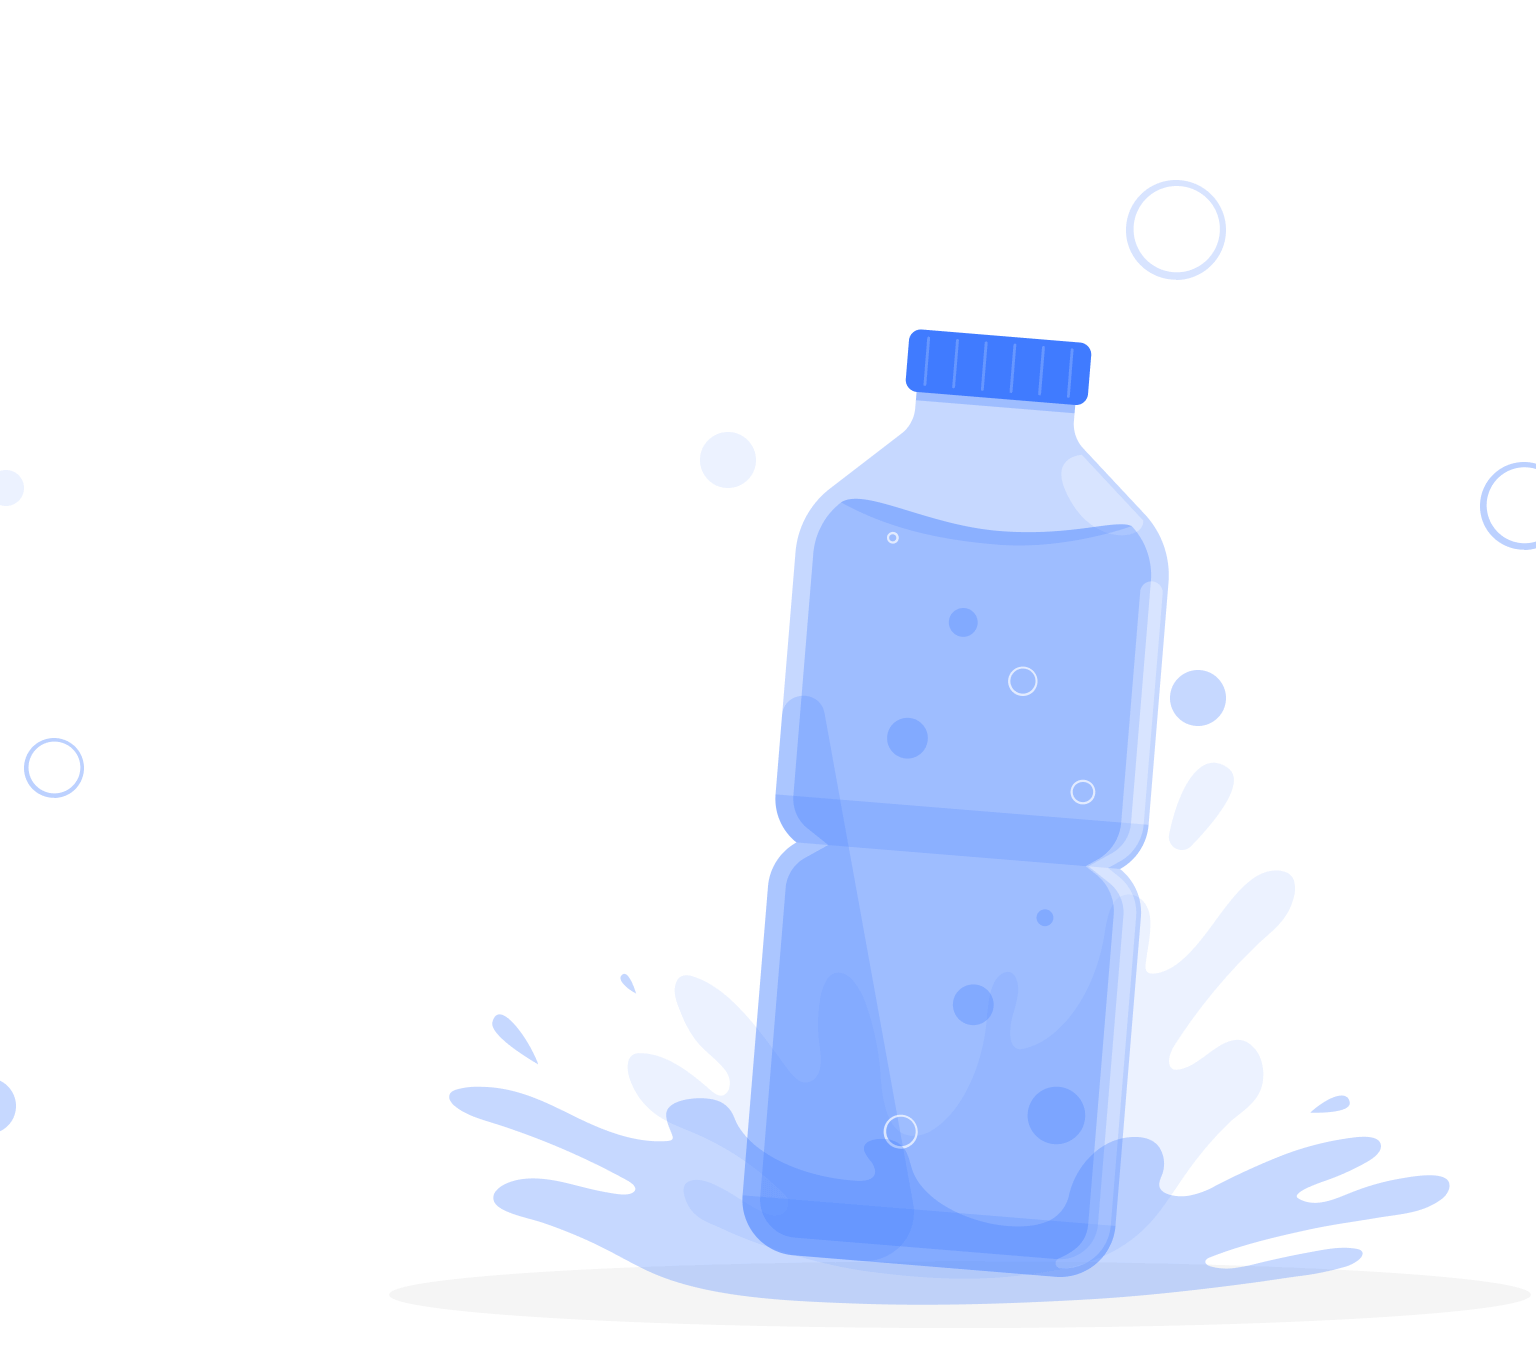
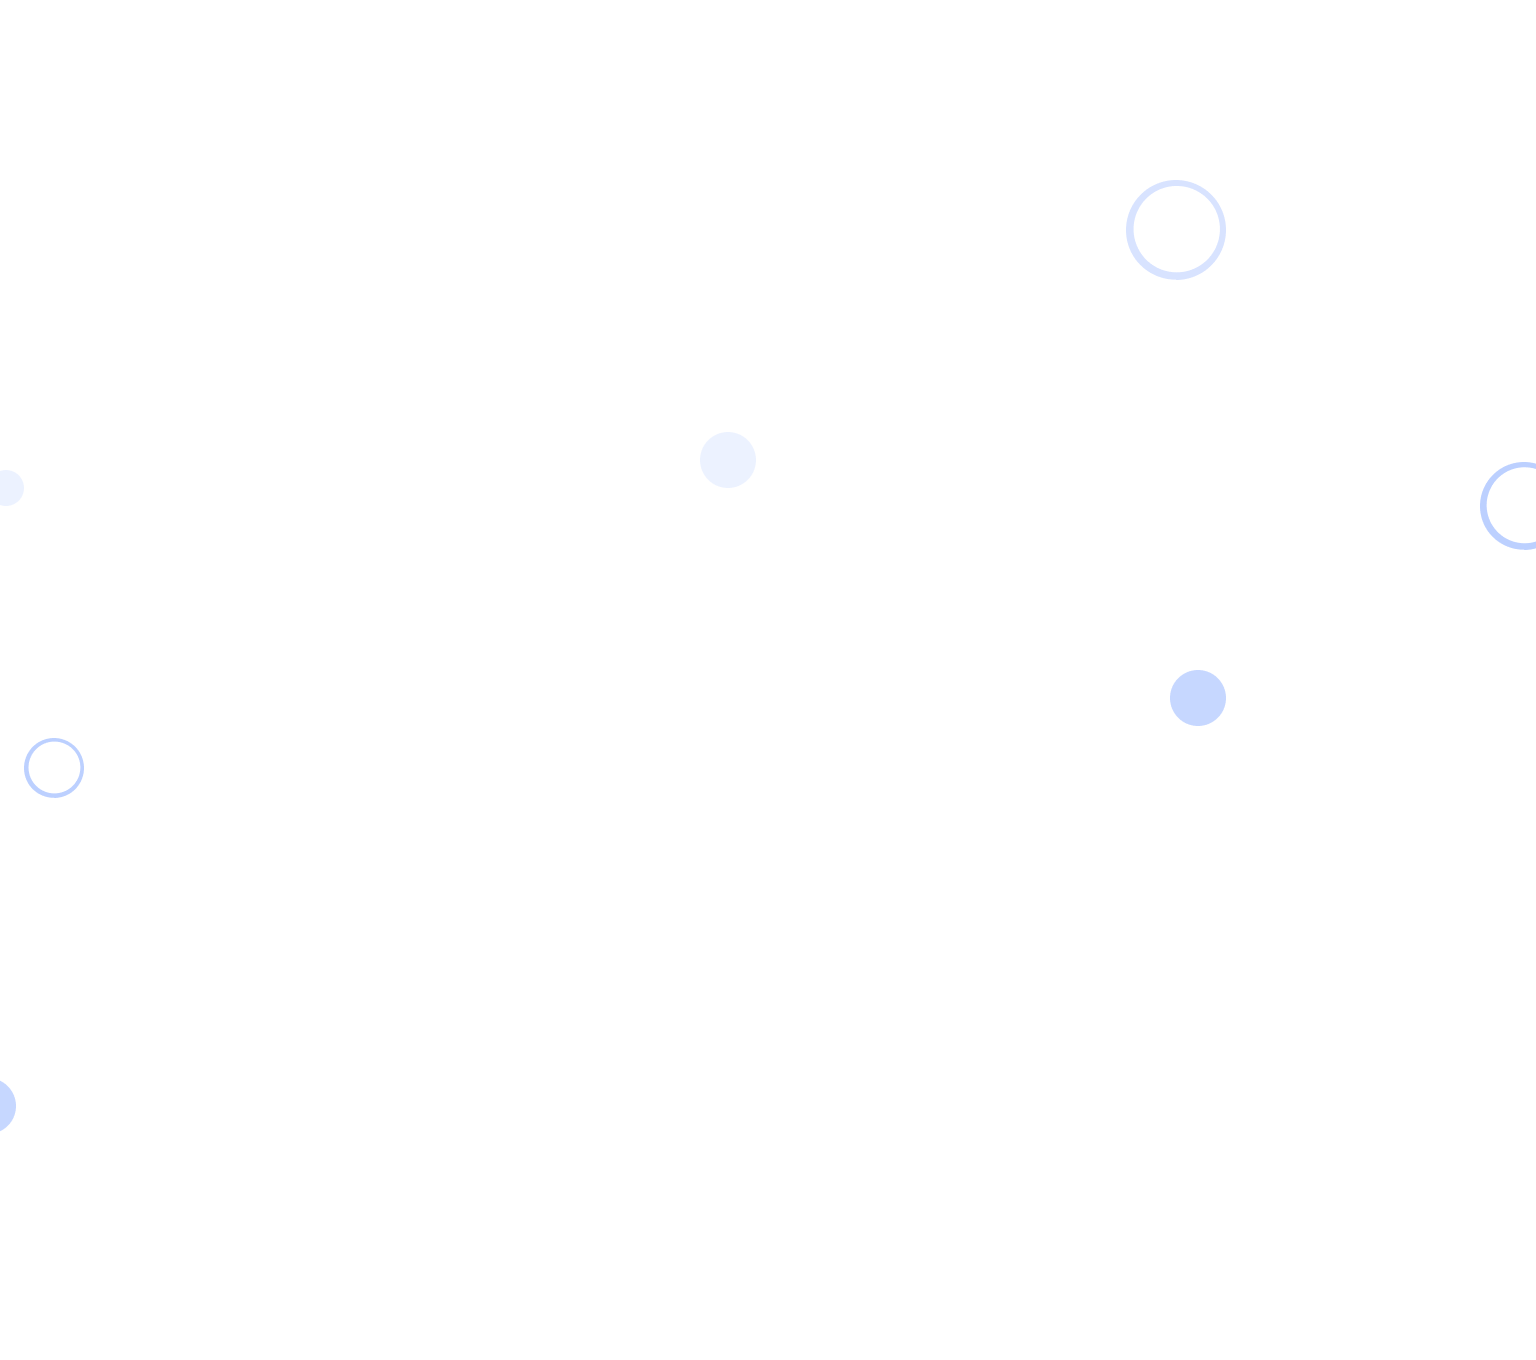
change SignInForm

Changed region(s): [[0.2812, 0.2162, 0.9375, 0.9574], [0.3125, 0.7412, 0.3438, 0.7721]]

diff --git a/src/components/SignInForm/SignInForm.jsx b/src/components/SignInForm/SignInForm.jsx
@@ -97,6 +97,39 @@ export const SignInForm = () => {
           </Form>
         )}
       </Formik>
+      <picture className={css.picture}>
+        {/* Десктоп с высоким разрешением */}
+        <source
+          srcSet="/images/SignIn/Bottle/Bottle-Desc-Sign-In-x2.png"
+          media="(min-width: 1440px) and (min-resolution: 192dpi)"
+        />
+        {/* Десктоп */}
+        <source
+          srcSet="/images/SignIn/Bottle/Bottle-Desc-Sign-In.png"
+          media="(min-width: 1440px)"
+        />
+        {/* Планшет с высоким разрешением */}
+        <source
+          srcSet="/images/SignIn/Bottle/Bottle-Tab-Sign-In-x2.png"
+          media="(min-width: 768px) and (min-resolution: 192dpi)"
+        />
+        {/* Планшет */}
+        <source
+          srcSet="/images/SignIn/Bottle/Bottle-Tab-Sign-In.png"
+          media="(min-width: 768px)"
+        />
+        {/* Мобильные устройства с высоким разрешением */}
+        <source
+          srcSet="/images/SignIn/Bottle/Bottle-Mob-Sign-In-x2.png"
+          media="(max-width: 767px) and (min-resolution: 192dpi)"
+        />
+        {/* Мобильные устройства */}
+        <img
+          src="/images/SignIn/Bottle/Bottle-Mob-Sign-In.png"
+          alt="Bottle Sign In"
+          style={{ width: "100%", height: "auto" }}
+        />
+      </picture>
     </div>
   );
 };

diff --git a/src/components/SignInForm/SignInForm.module.css b/src/components/SignInForm/SignInForm.module.css
@@ -101,12 +101,29 @@ span {
   text-align: center;
   border: none;
 }
+
+.container {
+  position: relative;
+}
+
+.picture {
+  width: 280px;
+  height: 210px;
+  position: absolute;
+}
+
 @media only screen and (min-width: 768px) {
   .form {
     width: 336px;
   }
   .btn {
     height: 44px;
+  }
+  .picture {
+    width: 600px;
+    height: 548px;
+    top: 0;
+    left: 20%;
   }
 }
 @media only screen and (min-width: 1440px) {
@@ -118,6 +135,13 @@ span {
   }
   .form {
     width: 384px;
+  }
+  .picture {
+    position: absolute;
+    width: 916px;
+    height: 680px;
+    top: -100px;
+    left: -250%;
   }
 }
 

diff --git a/src/pages/SignInPage/SignInPage.module.css b/src/pages/SignInPage/SignInPage.module.css
@@ -1,7 +1,7 @@
 .signIn {
   height: 680px;
   background-image: url("/images/SignIn/Mobile-Sign-In.png");
-  background-size: contain;
+  background-size: cover;
   background-position: center;
   background-repeat: no-repeat;
   padding: 4px 20px;
@@ -9,12 +9,11 @@
   display: flex;
   flex-direction: column;
   align-items: center;
-  min-width: 320px;
 }
 
 @media only screen and (min-resolution: 192dpi) {
   .signIn {
-    background-image: url("/images/SignIn/Mobile-Sign-In-2x.png");
+    background-image: url("/images/SignIn/Mobile-Sign-In-x2.png");
   }
 }
 
